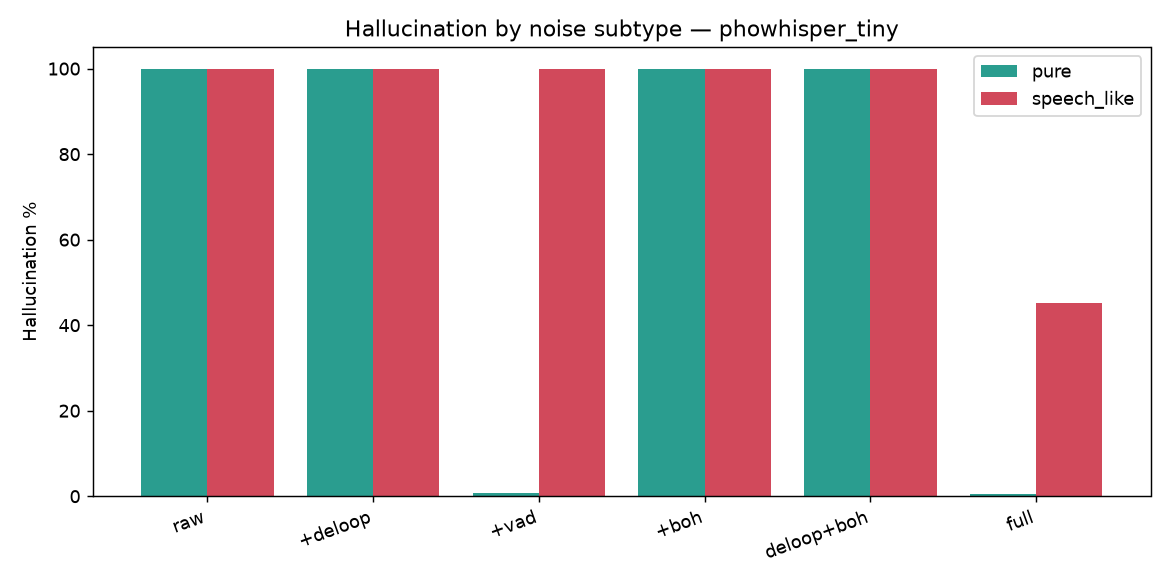
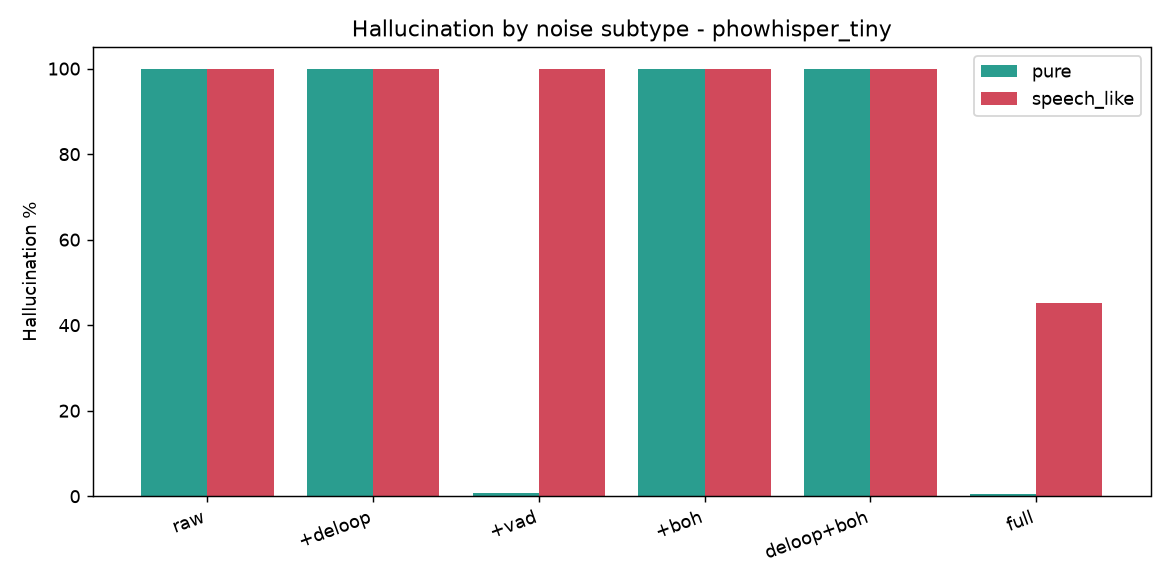
style(eval): use plain hyphen instead of em/en dash in chart titles and asr notes

Changed region(s): [[0.2769, 0.0308, 0.7692, 0.0923]]

diff --git a/local/plot_table7.py b/local/plot_table7.py
@@ -52,7 +52,7 @@ def plot_wer_vs_halluc(results: dict, model: str, out: Path) -> None:
     ax.set_xticks(list(x))
     ax.set_xticklabels([_short(c) for c in codes], rotation=20, ha="right")
     ax.set_ylabel("%")
-    ax.set_title(f"Recognition cost vs hallucination safety — {model}")
+    ax.set_title(f"Recognition cost vs hallucination safety - {model}")
     ax.legend()
     fig.tight_layout()
     fig.savefig(out, dpi=130)
@@ -70,7 +70,7 @@ def plot_stage_contribution(full: dict, model: str, out: Path) -> None:
     positions = range(len(stages))
     ax.bar(positions, pct, color=colors)
     ax.set_ylabel("% of non-speech items")
-    ax.set_title(f"Which stage catches non-speech (full pipeline) — {model}")
+    ax.set_title(f"Which stage catches non-speech (full pipeline) - {model}")
     ax.set_xticks(list(positions))
     ax.set_xticklabels(stages, rotation=20, ha="right")
     for i, v in enumerate(pct):
@@ -101,7 +101,7 @@ def plot_halluc_by_subtype(results: dict, model: str, out: Path) -> None:
     ax.set_xticks([i + width * (len(subtypes) - 1) / 2 for i in x])
     ax.set_xticklabels([_short(c) for c in codes], rotation=20, ha="right")
     ax.set_ylabel("Hallucination %")
-    ax.set_title(f"Hallucination by noise subtype — {model}")
+    ax.set_title(f"Hallucination by noise subtype - {model}")
     ax.legend()
     fig.tight_layout()
     fig.savefig(out, dpi=130)

diff --git a/local/plot_model_sweep.py b/local/plot_model_sweep.py
@@ -28,7 +28,7 @@ import matplotlib.pyplot as plt  # noqa: E402
 from local import config as cfg  # noqa: E402
 
 # (display name, params in millions, result-JSON path relative to results dir).
-# Ordered by model size — the x-axis of every sweep chart.
+# Ordered by model size - the x-axis of every sweep chart.
 DEFAULT_SWEEP = [
     ("tiny", 39, "table7_phowhisper_tiny_focused.json"),
     ("base", 74, "table7_phowhisper_base.json"),
@@ -105,7 +105,7 @@ def plot_wer_rtf(rows: list[dict], out: Path) -> None:
 
     ax1.set_xticks(list(x))
     ax1.set_xticklabels(_labels(rows))
-    ax1.set_title("Accuracy saturates, compute explodes — PhoWhisper size sweep")
+    ax1.set_title("Accuracy saturates, compute explodes - PhoWhisper size sweep")
     fig.tight_layout()
     fig.savefig(out, dpi=130)
     plt.close(fig)

diff --git a/notes/asr_research.md b/notes/asr_research.md
@@ -1,47 +1,47 @@
-# Vietnamese ASR Robustness — replicating Table VII for PhoWhisper
+# Vietnamese ASR Robustness - replicating Table VII for PhoWhisper
 
 > Research note (P1.1). Narrative English; numbers are read from real benchmark runs
 > (`local/eval_table7.py` → `eval/robustness_metrics.py`), not estimated.
-> Status: **complete — tiny ablation (§4–§5) + full 5-size PhoWhisper sweep (§6).**
+> Status: **complete - tiny ablation (§4-§5) + full 5-size PhoWhisper sweep (§6).**
 
 ## 1. Problem
 
 Whisper-family models hallucinate on non-speech: fed silence, noise, or babble they
-emit fluent but fabricated text. For a voice assistant that is a safety bug — the
+emit fluent but fabricated text. For a voice assistant that is a safety bug - the
 system "hears" commands nobody said. Vietnamese PhoWhisper inherits this. Barański et
 al. (ICASSP 2025) quantify the mitigations in their Table VII; this note replicates
 that ablation for Vietnamese PhoWhisper and measures each stage's contribution and cost.
 
-## 2. Method — RobustASR, five stages
+## 2. Method - RobustASR, five stages
 
 `soca/asr/robust_asr.py` wraps PhoWhisper with five mitigation stages, each a separate
 gate so the ablation can isolate them:
 
-1. **VAD** (Silero) — reject audio with no speech.
-2. **Confidence guard** — reject when `avg_logprob` is too low or the compression ratio
+1. **VAD** (Silero) - reject audio with no speech.
+2. **Confidence guard** - reject when `avg_logprob` is too low or the compression ratio
    too high (a research-backed choice: `avg_logprob`, not `no_speech_prob`, which is
    unreliable on fine-tuned models).
-3. **De-loop** — collapse consecutive-token repetition (a classic hallucination shape).
-4. **BoH** (Bag-of-Hallucinations) — Aho-Corasick match against a mined phrase list.
-5. **Heuristic safety net** — length/ratio checks on the surviving text.
+3. **De-loop** - collapse consecutive-token repetition (a classic hallucination shape).
+4. **BoH** (Bag-of-Hallucinations) - Aho-Corasick match against a mined phrase list.
+5. **Heuristic safety net** - length/ratio checks on the surviving text.
 
 ## 3. Setup
 
 - **Speech**: FLEURS `vi_vn` (200 utterances), ground-truth transcripts → WER/CER.
 - **Non-speech**: 300 items (247 `pure` + 53 `speech_like`), **stratified by subtype**:
-  - `pure` — ESC-50 (human-voice categories excluded) + synthetic silence/white/pink.
-  - `speech_like` — **babble** synthesised by overlapping 3–6 FLEURS voices at low RMS,
+  - `pure` - ESC-50 (human-voice categories excluded) + synthetic silence/white/pink.
+  - `speech_like` - **babble** synthesised by overlapping 3-6 FLEURS voices at low RMS,
     some reversed (`local/collect_noise.py::mix_babble`). This is the crucial addition:
     pure noise is rejected by VAD at the gate, so only speech-like noise that _leaks
     past VAD_ can reveal what the later stages actually catch.
-- **Model**: PhoWhisper-tiny (ONNX, greedy, no KV-cache) — matches the paper's "tiny".
+- **Model**: PhoWhisper-tiny (ONNX, greedy, no KV-cache) - matches the paper's "tiny".
   All five sizes (tiny→large) are swept in §6.
 - **Configs (6)**: `raw / deloop / vad / boh / deloop_boh / vad_deloop_boh(full)`.
 - **Metrics** (`eval/robustness_metrics.py`): WER/CER on accepted speech, hallucination
   rate on non-speech, **false-reject rate** on speech, and a **per-stage breakdown** of
   which gate caught each non-speech item.
 
-## 4. Results — tiny ablation
+## 4. Results - tiny ablation
 
 PhoWhisper-tiny (39 M, ONNX greedy), 200 speech / 300 non-speech, CoreML+CPU on M4.
 
@@ -54,7 +54,7 @@ PhoWhisper-tiny (39 M, ONNX greedy), 200 speech / 300 non-speech, CoreML+CPU on 
 | deloop+boh | 24.62 | 12.03 |   100.00 |        0.00 |        674 |       2661 |
 | **full**   | 25.22 | 12.40 | **8.33** |        0.00 |        312 |       2013 |
 
-**Stage contribution** — which gate caught each of the 300 non-speech items (full pipeline):
+**Stage contribution** - which gate caught each of the 300 non-speech items (full pipeline):
 
 | Stage             | Caught | % of noise |
 | ----------------- | -----: | ---------: |
@@ -73,26 +73,26 @@ catch-rate = **91.7%**, false-reject = **0.00%**.
 ## 5. Reading the results
 
 - **VAD does the coarse work on pure noise**: pure-subtype hallucination drops from 100%
-  to **0.8%** (VAD-only) and **0.4%** (full) — but that only proves "VAD works", nothing
+  to **0.8%** (VAD-only) and **0.4%** (full) - but that only proves "VAD works", nothing
   about the later stages.
 - **De-loop and BoH, in isolation, catch nothing here**: `+deloop`, `+boh`, and
-  `deloop+boh` all sit at **100%** hallucination — identical to raw. De-loop finds no
+  `deloop+boh` all sit at **100%** hallucination - identical to raw. De-loop finds no
   runaway repetition to collapse, and the 56-phrase mined BoH list never intersects
   tiny's hallucination vocabulary on this set (0 of 300 caught, even inside the full
-  pipeline — there is no `empty_after_boh` row in the stage breakdown). An honest null
+  pipeline - there is no `empty_after_boh` row in the stage breakdown). An honest null
   result: on this data the real second line of defence is the confidence guard, not BoH.
 - **The confidence guard earns its keep on speech-like babble**: `speech_like` leaks
   fully past VAD (**100%** at VAD-only), and `avg_logprob` + compression-ratio gates pull
-  it down to **45.3%** (full) — overall hallucination **18.33% → 8.33%**. Of the 55 items
+  it down to **45.3%** (full) - overall hallucination **18.33% → 8.33%**. Of the 55 items
   VAD passes, the guard + heuristic reject 30 (22 low-confidence, 6 high-compression, 2
   heuristic). This is the contribution the earlier pure-only noise set could not show.
 - **False-reject costs nothing at these thresholds**: WER is essentially flat
-  (raw **25.45%** → full **25.22%**) and false-reject is **0.00%** across every config —
+  (raw **25.45%** → full **25.22%**) and false-reject is **0.00%** across every config -
   the guards trim no true speech here. The safety gain is free on this eval; the honest
   caveat is that a harder speech set (noisy field audio) would eventually surface the
   precision/recall trade the guards buy.
 
-## 6. Robustness × model size — full PhoWhisper sweep
+## 6. Robustness × model size - full PhoWhisper sweep
 
 All five PhoWhisper sizes on the **same focused basis** (15 speech + 30 noise, `raw` +
 `full`, seed 42 → identical items across models). RTF = mean processing time ÷ mean clip
@@ -114,35 +114,35 @@ Three findings, all sharper than a "bigger is better" prior:
 - **Raw hallucination is 100% at _every_ size.** The flat red line is the headline:
   scaling from 39 M to 1.55 B does not teach the model to refuse non-speech. Hallucination
   is orthogonal to acoustic capacity; only the RobustASR pipeline closes it (full column
-  drops to 3–10%, on VAD + the confidence guard).
+  drops to 3-10%, on VAD + the confidence guard).
 - **WER saturates at `small`, but RTF keeps climbing.** Accuracy falls 20.5% → 12.2% by
-  `small` (244 M) and then flattens — `medium` and `large` add **zero** accuracy while RTF
+  `small` (244 M) and then flattens - `medium` and `large` add **zero** accuracy while RTF
   goes 0.54 → 1.48 → 2.86. So the two useful operating points are **`tiny`** (RTF 0.12,
   the latency pick) and **`small`** (RTF 0.54, the last size under real-time and already at
   large's accuracy). `medium`/`large` are strictly dominated on-device.
 - **Bigger models hallucinate _more confidently_.** All five leak the same 3 `speech_like`
   clips past VAD, but `tiny`'s confidence guard rejects 2 of them (full = 3.3%) while
   `base`+ reject 0 (full = 10.0%). Larger models emit higher-confidence fabrications, so
-  the `avg_logprob` gate catches fewer — a small-_n_ (3-item) observation here, but it
+  the `avg_logprob` gate catches fewer - a small-_n_ (3-item) observation here, but it
   matches the 200/300 tiny run where the guard was clearly active, and the confidence-
   filtering literature (§7). It also argues the thresholds should be **recalibrated per
   size** rather than reused from tiny.
 
 Caveat: confidence thresholds are tiny-calibrated and reused as-is on every size (see
-Limitations); n = 15/30 is a probe, so the `full` column (3 leaks) is noisy — the 200/300
+Limitations); n = 15/30 is a probe, so the `full` column (3 leaks) is noisy - the 200/300
 tiny run (§4) is the reliable read on the pipeline's steady-state behaviour.
 
 ## 7. Anchors
 
-- Barański et al., _Mitigating Whisper hallucinations_, ICASSP 2025 — Table VII pattern.
-- _Listen Like a Teacher_ (2025) — confidence/consistency-based hallucination filtering.
+- Barański et al., _Mitigating Whisper hallucinations_, ICASSP 2025 - Table VII pattern.
+- _Listen Like a Teacher_ (2025) - confidence/consistency-based hallucination filtering.
 
 ## 8. Limitations
 
 - **Thresholds are tiny-calibrated**; every size in the sweep reuses them, though §6
   suggests larger models need higher `avg_logprob` cutoffs (they hallucinate more
   confidently).
-- **Babble is synthetic** (overlapped FLEURS), not recorded crowd noise / MUSAN — cheap
+- **Babble is synthetic** (overlapped FLEURS), not recorded crowd noise / MUSAN - cheap
   and reproducible, but a real MUSAN `speech`/`music` set would strengthen the claim.
-- **Scale**: 200 speech / 300 noise — enough for the pattern, not a leaderboard number.
+- **Scale**: 200 speech / 300 noise - enough for the pattern, not a leaderboard number.
 - Single decoder strategy (greedy, no KV-cache); beam search may hallucinate differently.
